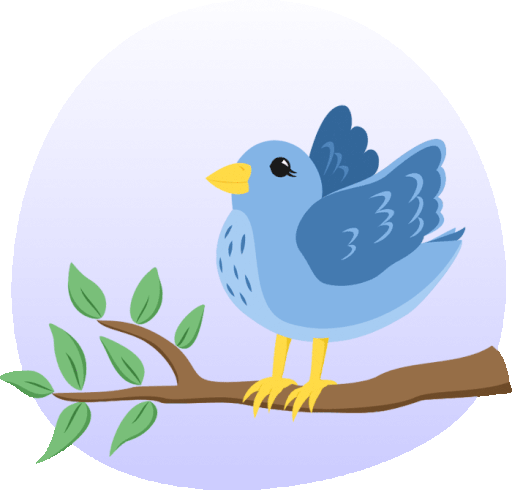
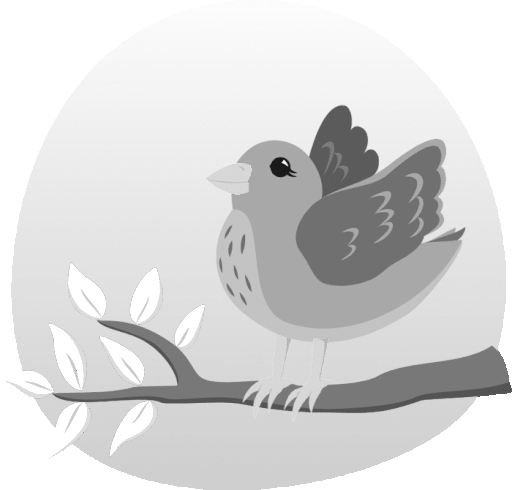
écran pour "écouter cet oiseau + bugs fixes

diff --git a/app/js/layout.js b/app/js/layout.js
@@ -2,9 +2,9 @@
 import { getNomLatin, getSelectedTypes, slugify } from './strings.js';
 import { bindBirdCell } from './controls.js';
 import { clearSearch } from './search.js';
-import { playValidationSound } from './player.js';
+import { playBird, playValidationSound } from './player.js';
 
-// Change la version dans le titre
+// Change la version dans l'app-bar
 export const setTitleVersion = async () => {
   const version = await window.api.getVersion();
   document.querySelector('#titlebar .title').textContent = `Blind-Test Oiseaux v${version}`;
@@ -24,15 +24,13 @@ export function applySelectedTypes(selectedTypes) {
 }
 
 
-function showImage(birdName) {
-  const container = document.getElementById('result-image');
+function showImage(birdName, id='result-image') {
+  const container = document.getElementById(id);
   const link = `https://www.oiseaux.net/oiseaux/${slugify(birdName)}.html`;
   const img = document.createElement('img');
 
   container.innerHTML = '';
   img.src = `../ressources/oiseaux/${birdName}/image.jpg`;
-  img.style.maxWidth = '300px';
-  img.style.cursor = 'pointer';
   img.onclick = () => {
     console.log(link);
     window.open(link, '_blank');
@@ -125,11 +123,11 @@ export async function genererGrilleOiseaux({app}) {
     grid.appendChild(divCell);
   }
   let birdCountText = app.birdList.length;
-  if (app.birdList.length == 0) {
-    document.getElementById('bird-animation').classList.add("hidden");
-  } else {
-    document.getElementById('bird-animation').classList.remove("hidden");
-  }
+  // if (app.birdList.length == 0) {
+  //   document.getElementById('bird-animation').classList.add("display-none");
+  // } else {
+  //   document.getElementById('bird-animation').classList.remove("display-none");
+  // }
   if (app.birdList.length <= 1) {
     birdCountText += " oiseau sélectionné";
   } else {
@@ -270,4 +268,41 @@ export function updateTiles({app}) {
       <span>Lecture au démarrage désactivée</span>
     `;
   }
+}
+
+export function listenToBird({app}) {
+  hideBirdCells({app});
+  playBird({app}, true);
+}
+
+
+function hideBirdCells({app}) {
+  document.getElementById('search-bar-field').classList.add("display-none");
+  document.getElementById('bird-animation').classList.add("display-none");
+  document.getElementById('bird-grid').classList.add("display-none");
+
+  // const birdCells = birdGrid.getElementsByClassName('cell');
+  // console.log(allCells);
+  // for (let birdCell of birdCells) {
+  //   if (birdCell.dataset.name != app.currentBird) {
+  //     birdCell.classList.add("display-none");
+  //   }
+  // }
+
+  document.getElementById('what-bird-title').innerHTML = `On écoute:<br/><br/>${app.currentBird} (<i>${app.birdsData[app.currentBird].nom_latin}</i>)`;
+  document.getElementById('bird-face').src = `../ressources/oiseaux/${app.currentBird}/image.jpg`;
+  // document.getElementById('bird-face').alt = `${app.currentBird}`;
+  showImage(app.currentBird, "bird-face")
+  document.getElementById('bird-face').classList.remove("display-none");
+  document.getElementById('next-bird').classList.remove("display-none");
+}
+
+
+export function showBirdCells() {
+  document.getElementById('search-bar-field').classList.remove("display-none");
+  document.getElementById('bird-grid').classList.remove("display-none");
+  document.getElementById('bird-animation').classList.remove("display-none");
+  document.getElementById('what-bird-title').innerHTML = `Quel est cet oiseau ?`;
+  document.getElementById('bird-face').classList.add("display-none");
+  document.getElementById('next-bird').classList.add("display-none");
 }

diff --git a/app/js/player.js b/app/js/player.js
@@ -111,16 +111,16 @@ export function checkVolumeButtonIcon(volume) {
 
 
 // Écouter un oiseau
-export function listenToBird({app}) {
+export function playBird({app}, forceplay = false) {
   const variants = app.birdsData[app.currentBird]?.variants || [];
 
   if (variants.length > 0) {
-    playBirdSound({app}, Math.floor(Math.random() * variants.length));
+    playBirdSound({app}, Math.floor(Math.random() * variants.length), forceplay);
   }
 }
 
 
-function playBirdSound({app}, index = 0) {
+function playBirdSound({app}, index = 0, forceplay) {
   // app.audio.pause();
   stopAudio({app});
   const file = app.birdsData[app.currentBird].variants[index];
@@ -136,14 +136,14 @@ function playBirdSound({app}, index = 0) {
   app.audio.dataset.index = index;
   app.audio.volume = app.volume/100;
 
-  startAudio({app});
+  startAudio({app}, forceplay);
 }
 
-function startAudio({app}) {
+function startAudio({app}, forceplay) {
   app.audio.preload = 'auto';
   app.audio.load();
 
-  if (!app.autoplayAtStart && app.total == 0) {
+  if (!app.autoplayAtStart && app.total == 0 && !forceplay) {
     document.getElementById('pause-button-img').src = "../ressources/images/play-button.png";
     document.getElementById('bird-animation').src = "../ressources/images/oiseau_qui_chante_pas.png";
     window.api.updateThumbar(app.audio.paused, app.muted);
@@ -207,7 +207,9 @@ export function playRandomBird({app}) {
   if (pool.length === 0) {
     stopAudio({app});
 
-    document.getElementById('titre').innerHTML = "Aucun oiseau n'est sélectionné !";
+    // document.getElementById('what-bird-title').innerHTML = "Aucun oiseau n'est sélectionné !";
+    document.getElementById('no-bird-selected').classList.remove('display-none');
+    document.getElementById('what-bird-title').classList.add('display-none');
 
     // On désactive les commandes de son
     toggleSoundControls(false);
@@ -215,7 +217,9 @@ export function playRandomBird({app}) {
     document.getElementById('bird-animation').src = "../ressources/images/oiseau_qui_chante_pas.png";
     return;
   } else {
-    document.getElementById('titre').innerHTML = "Quel est cet oiseau ?";
+    // document.getElementById('what-bird-title').innerHTML = "Quel est cet oiseau ?";
+    document.getElementById('no-bird-selected').classList.add('display-none');
+    document.getElementById('what-bird-title').classList.remove('display-none');
     document.getElementById('search-bar-control').style.display = 'block';
     toggleSoundControls();
   }
@@ -245,6 +249,6 @@ export function playRandomBird({app}) {
   // console.log('---------------------------------------');
   // for (index in app.birdsData) { if (app.birdsData[index].playCount > 0) console.log(index, ":", app.birdsData[index].playCount); }
 
-  listenToBird({app});
+  playBird({app});
 }
 

diff --git a/app/js/controls.js b/app/js/controls.js
@@ -1,8 +1,8 @@
 import { saveSettings } from './settings.js';
 import { clearSearch, searchBird } from './search.js';
 import { getSelectedTypes, slugify } from './strings.js';
-import { playRandomBird, toggleReplayMode, togglePause, playNextVariant, muteAudio, slideVolume, listenToBird } from './player.js'
-import { genererGrilleOiseaux, closePopup, hideShortcutsPopup, validate } from './layout.js';
+import { playRandomBird, toggleReplayMode, togglePause, playNextVariant, muteAudio, slideVolume } from './player.js'
+import { genererGrilleOiseaux, closePopup, hideShortcutsPopup, validate, listenToBird, showBirdCells } from './layout.js';
 import { bindMoreMenu } from './controls-more.js';
 
 export function bindAllButtons({app}) {
@@ -71,6 +71,7 @@ function bindTypes({app}) {
       btn.classList.toggle('is-selected');
       clearSearch();
       await genererGrilleOiseaux({app});
+      showBirdCells();
       playRandomBird({app});
     });
   });
@@ -94,6 +95,8 @@ function bindBirds({app}) {
     if (ctxMenu) ctxMenu.style.display = 'none';
     // document.getElementById('tiles-container').style.display = 'none';//todo: voir si y en a besoin ici pour tiles-container
   });
+
+  document.getElementById('next-bird-button').addEventListener('click', () => { showBirdCells({app}); playRandomBird({app}); });
 }
 
 export function bindBirdCell(birdCell, birdName, {app}) {

diff --git a/app/index.html b/app/index.html
@@ -70,8 +70,11 @@
         <!-- Colonne droite : tout le reste en pile -->
         <div id="colonne-droite" class="column">
           <section id="quiz" class="box">
-            <h2 id="titre" class="title is-4">Quel est cet oiseau ?</h2>
+            <h2 id="no-bird-selected" class="title is-4 display-none">Aucun oiseau n'est sélectionné !</h2>
+            <h2 id="what-bird-title" class="title is-4">Quel est cet oiseau ?</h2>
             <img id="bird-animation" src="../ressources/images/oiseau_qui_chante.gif" alt="Oiseau qui chante">
+            <div id="bird-face" class="tooltip tooltip-right display-none" data-tooltip="Clique pour en savoir plus sur cet oiseau"></div>
+
             <div class="field" id="search-bar-field">
               <div id="search-bar-control" class="control has-icons-left has-icons-right">
                 <input id="search-bar" class="input" type="text" placeholder="🔍 Rechercher un oiseau...">
@@ -82,6 +85,9 @@
                   ✖
                 </span>
               </div>
+            </div>
+            <div id="next-bird" class="display-none">
+              <button id="next-bird-button" class="button tooltip tooltip-bottom" data-tooltip="Jouer un autre oiseau aléatoire">Jouer un autre oiseau</button>
             </div>
             <div id="bird-grid" class="grid"></div>
           </section>

diff --git a/app/css/popup.css b/app/css/popup.css
@@ -98,7 +98,7 @@
 /* #result-text {
   border-radius: 8px;
 } */
-#result-image {
+#result-image, #bird-face {
   width: 300px;
   height: 300px;
   display: flex;
@@ -107,17 +107,19 @@
   margin: 0 auto;
   margin-bottom: 20px;
 }
-#result-image img {
+#result-image img, #bird-face img {
+  max-width: 300px;
+  cursor: pointer;
   border: 2px solid black;
   transition: 0.2s ease;
   background-color: rgba(0, 0, 0, 0.25);
 }
-#result-image img:hover{
+#result-image img:hover, #bird-face img:hover {
   border: 2px dotted black;
   padding: 2px;
   border-radius: 12px;
 }
-#result-image img:active{
+#result-image img:active, #bird-face img:active {
   border-radius: 16px;
   padding: 8px;
 }

diff --git a/app/css/birds.css b/app/css/birds.css
@@ -113,10 +113,6 @@
   width: 64px;
   margin: 10px;
 }
-#bird-animation.hidden {
-  display: none;
-  /* visibility: hidden; */
-}
 
 /* ------------------------------------------------------- */
 /*                   Grille des oiseaux                    */
@@ -258,4 +254,24 @@ button.validate-bird {
 }
 #context-menu span:hover {
   background: #88a4af;
+}
+
+
+
+#bird-face img {
+  border-radius: 5%;
+}
+/*
+#bird-face:hover {
+  border: 2px dashed black;
+  cursor: pointer;
+} */
+#next-bird {
+  height: 80px;
+  width: 100%;
+}
+#next-bird button {
+  display: inline-block;
+  color: white;
+  width: 300px!important;
 }

diff --git a/app/css/app-bar.css b/app/css/app-bar.css
@@ -21,7 +21,9 @@
   align-items: center;
   background: #1f2937;
   color: white;
-  padding: 0 10px;
+  /* padding: 0 10px; */
+  padding-left: 10px;
+
 }
 #titlebar .title {
   margin: 0;
@@ -34,9 +36,15 @@
 }
 
 
+#window-controls {
+  height: 32px;
+}
+
 
 #titlebar button {
   -webkit-app-region: no-drag;
+  height: 32px;
+  width: 32px;
   background: transparent;
   border: none;
   color: white;
@@ -47,7 +55,7 @@
 }
 #titlebar button:hover {
   background: rgba(255, 255, 255, 0.1);
-  border-radius: 4px;
+  /* border-radius: 4px; */
 }
 #close-button:hover {
   background-color: rgba(204, 9, 9, 0.801)!important;

diff --git a/app/js/init.js b/app/js/init.js
@@ -54,7 +54,7 @@ export async function loadApp() {
   // On lance directement un son d'oiseau au démarrage (sauf si on a désactivé l'option)
   playRandomBird({app});
 
-  console.log(app);
+  // console.log(app);
 }
 
 export async function getApp() {

diff --git a/app/css/layout.css b/app/css/layout.css
@@ -104,3 +104,7 @@ button:not(.disabled) {
 table.table tr th {
   text-align: center!important;
 }
+
+.display-none {
+  display: none !important;
+}

diff --git a/todo.md b/todo.md
@@ -1,5 +1,7 @@
 # Notes de mises à jour 2.2.7
-- 
+- "Écouter cet oiseau" affiche maintenant un écran différent
+- Agrandissement des boutons: ━ , 🗖 et ✖
+- Correction de bugs
 
 # Oiseaux à ajouter
 
@@ -11,7 +13,7 @@
 
 ---
 # Bugs à fix
-- #427: quand on a écouté 0 oiseau, et qu'on fait "écouter cet oiseau" alors qu'on a le démarrage auto désactivé, le son ne se lance pas avant d'appuyer sur play manuellement
+
 
 ---
 # À faire peut-être
@@ -19,8 +21,6 @@
 - enregistrer le playCount à la fermeture de l'app -> ne faire ça que pour les listes persos (ou pour chaque liste ?)
 - section "notes de mise à jour" pour marquer la release
   -> pop-up au lancement après une maj pour afficher lesdîtes notes 🤔
-- lorsque l'on fait "écouter cet oiseau", changer "quel est cet oiseau ?" en "on écoute: ..."
-  -> ça, + le bug #427 -> différencier la lecture simple de la lecture choisie ? 🤔 genre on supprime la liste d'oiseaux et on la remplace par juste l'oiseau et un bouton "suivant" (on ne compte pas le point ni ne l'ajoutons au total d'oiseaux lus)
 - agrandir la zone d'action des boutons de la fenêtre (pour pouvoir juste aller en haut à droite pour fermer la fenêtre rapidement)
 - demander a gpt une page html pour comparer les images des oiseaux avec leurs images oiseaux.net (corriger les oiseaux mal mis)
 
